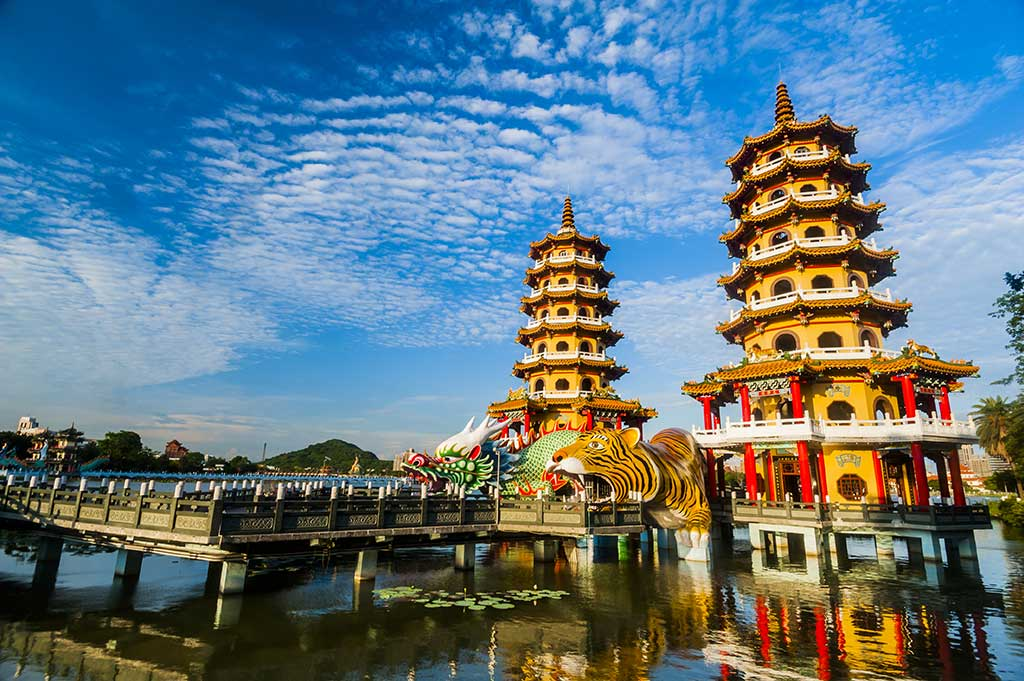
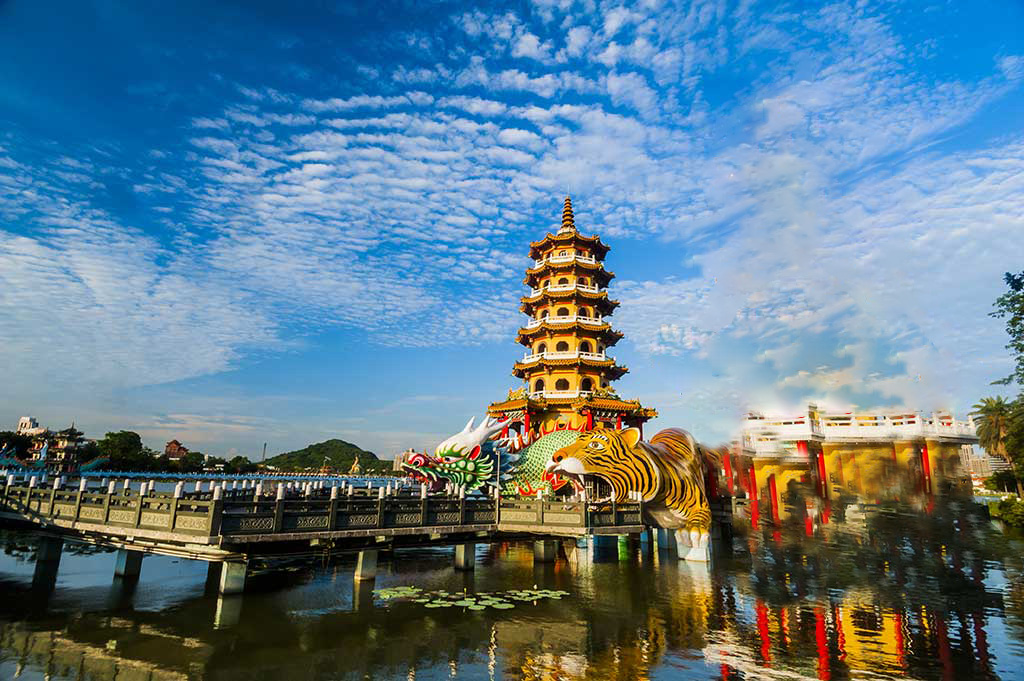
tc

diff --git a/07fullpage/css/style.css b/07fullpage/css/style.css
@@ -82,22 +82,27 @@ to{bottom:20px;}
 #fullpage #page4 img.women.on{animation-name:women;}
 
 #fullpage #page5{background-image:url(../images/content04.jpg);}
+#fullpage #page5 img.tower{position:absolute; right:-100%; bottom:122px; transform: scale(1.8);animation-duration:1.5s;animation-fill-mode:forwards;}
+@keyframes tower{
+	0%{right:-100%;}
+	75%{right:180px;}
+	100%{right:134px;}
+}
+#fullpage #page5 img.tower.on{animation-name:tower;}
 
 #fullpage .section{background-repeat:no-repeat;background-position:center;background-size:cover;}
 
 .txt_body{position:absolute; width: 400px; top:50%; left:50%; transform:translate(-50%,-50%); padding:30px 0; border-radius:15px;}
 .txt_body.p1{background: rgba(118,117,118,0.8);}
-.txt_body.p2{background: rgba(145,14,2,0.8);}
-.txt_body.p3{background: rgba(158,155,0,0.8);}
+.txt_body.p2{background: rgba(118,117,118,0.8);}
+.txt_body.p3{background: rgba(118,117,118,0.8);}
 .txt_body h1{text-indent:-9999px; width: 157px; line-height:40px; margin:0 auto; background:url(../images/logo.png) no-repeat center;margin-bottom:35px; padding-bottom:35px;}
 .txt_body h1 a{display:block;}
-.txt_body p{text-align:center; font-size:24px;margin-bottom:35px; color:#c9d701;}
+.txt_body p{text-align:center; font-size:24px;margin-bottom:35px; color:#fff;}
 .txt_body p span{display:inline-block; margin-bottom:20px; font-size:36px;}
 .txt_body p span.space{display:inline-block; width: 155px;}
 .txt_body .txt_slide{width:150px; position:relative;}
-.txt_body .txt_slide li.t_slide{width: 117px;text-align:center; position:absolute; bottom:35px; left:135px;font-size:24px;color:#f00;display:none;}
-.txt_body .txt_slide.p2 li.t_slide{color:#0f0;}
-.txt_body .txt_slide.p3 li.t_slide{color:#00f;}
+.txt_body .txt_slide li.t_slide{width: 117px;text-align:center; position:absolute; bottom:35px; left:135px;font-size:24px;color:#dfec03;display:none;}
 .txt_body .btn_next{display:none;}
 .txt_body .txt_body_btn{margin:0 auto;width: 220px;}
 .txt_body .txt_body_btn .btn-click{width: 220px;border: 1px solid rgba(255, 255, 255, 0.7);background-color: transparent;border-radius: 50px;padding: 5px 0 5px 15px;position: relative;text-align: center;color: #c9d701;text-transform: uppercase;font-size: 13px; display: inline-block;}

diff --git a/06company-revision/css/style.css b/06company-revision/css/style.css
@@ -1,6 +1,7 @@
 @charset "utf-8";
 
 @media screen and (min-width:923px){
+.wrap
 /*header*/
 /*headertop*/
 .hd_top_wrap{position:fixed; left:50%; transform:translateX(-50%); z-index:1;}
@@ -68,7 +69,7 @@ i{font-size:7em; color:#fff; vertical-align:middle; margin-bottom:30px;}
 .plat_recipe h3{font-weight:bold;}
 
 /*favor*/
-.con_favorite_wrap{width: 1920px; background:url(../images/favor_bg.jpg) no-repeat 50%;background-size:cover;}
+.con_favorite_wrap{width: 100%; background:url(../images/favor_bg.jpg) no-repeat 50%;background-size:cover;}
 .con_favorite{margin:0 auto; text-align:center;}
 .con_favorite h3{color:#fff; font-size:36px; padding-top:55px; margin-bottom:40px; position:relative;}
 .con_favorite h3:after{content:""; display:block; width:40px; height: 2px; background:#fff; position:absolute; left:50%; transform:translateX(-50%);bottom:-18px;}
@@ -365,7 +366,7 @@ to{transform:translateY(-20px);}
 .news_menu li:hover a{background:#223a6a; color:#fff;}
 .news_menu li a{display:block; text-align:center;}
 .news_list .list_body{display:none;}
-.news_list .list_body li{width: calc(50% - 15px); height: 331px; margin-right:15px;}
+.news_list .list_body li{width: calc(50% - 15px);margin-right:15px;}
 .list_body li a{display:block; font-size:14px;}
 .list_body.on{display:block;}
 /* 화사라면광고 url = https://youtu.be/bscDxrb6lcU*/

diff --git a/07fullpage/index.html b/07fullpage/index.html
@@ -80,6 +80,7 @@
 						$(".women").removeClass("on");						
 					}
 					if(index == 5){
+						$(".tower").addClass("on");
 						var current = 0;
 						var banner = $(".txt_slide.p3>li");
 						function slideNext(){
@@ -99,7 +100,7 @@
 						}
 						setInterval(trigger,2000);
 					}else{
-
+						$(".tower").removeClass("on");	
 					}
 				}
 			});
@@ -208,6 +209,7 @@
 			</div>
 		</div>
 		<div class="section" id="page5" data-anchor="a5st">
+			<img src="images/page03_img01.png" alt="" class="tower">
 			<div class="txt_body p3">
 				<h1><a href="#a1st">logo</a></h1>
 				<p><span>TAIWAN</span><br>[ <span class="space"></span>]</p>

diff --git a/07fullpage/sub01.html b/07fullpage/sub01.html
@@ -1,0 +1,17 @@
+<!DOCTYPE html>
+<html lang="en">
+<head>
+	<meta charset="UTF-8">
+	<meta name="viewport" content="width=device-width, initial-scale=1.0">
+	<title>모두투어_TAIPEI</title>
+	<link rel="stylesheet" href="css/reset.css">
+	<link rel="stylesheet" href="css/fullpage.css">
+	<link rel="stylesheet" href="css/all.css">
+	<link rel="stylesheet" href="css/style.css">
+	<script src="js/jquery-3.1.1.min.js"></script>
+	<script src="js/jquery.fullPage.js"></script>
+</head>
+<body>
+	
+</body>
+</html>
